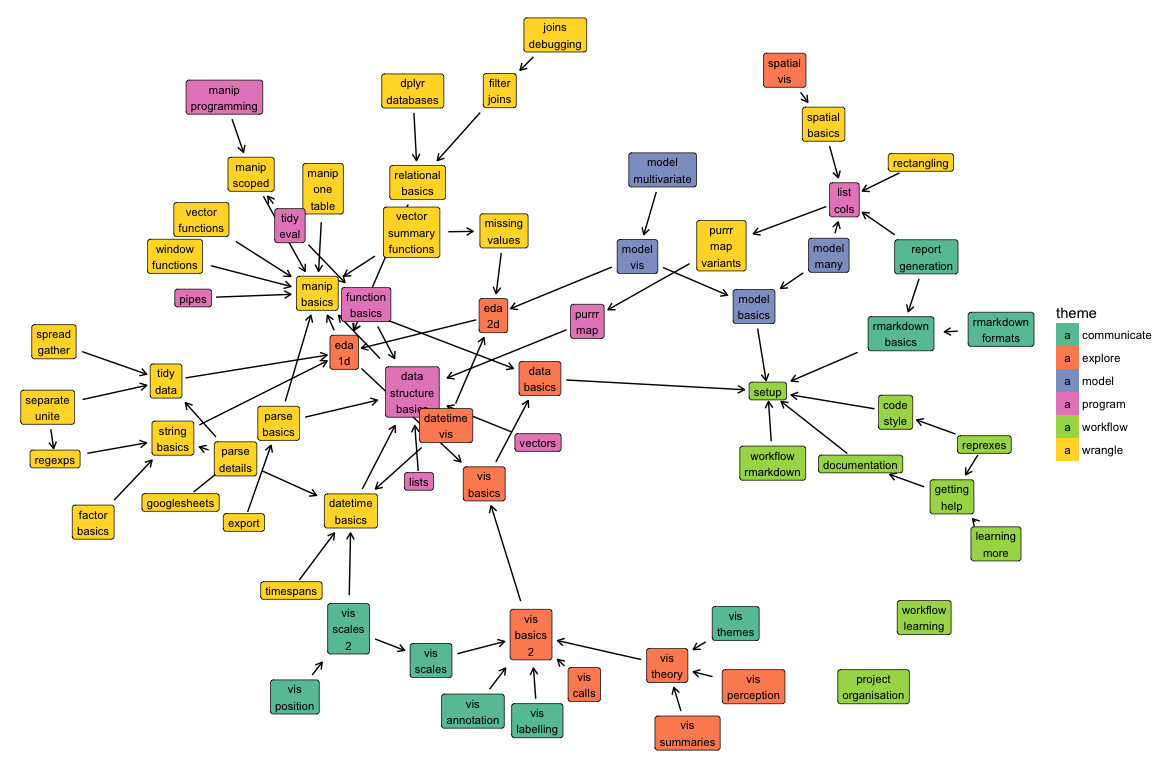
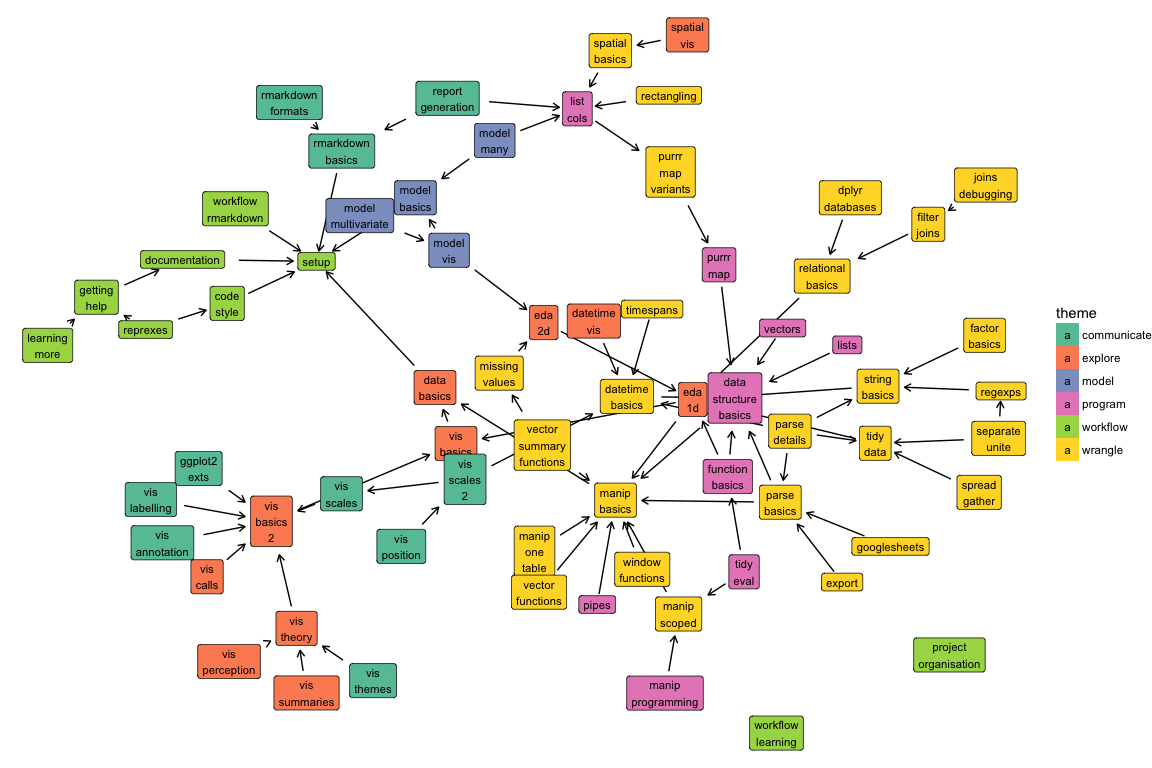
Add ggplot2-exts

diff --git a/docs/ggplot2-exts.md b/docs/ggplot2-exts.md
@@ -1,0 +1,20 @@
+---
+title: ggplot2 extensions
+---
+
+<!-- Generated automatically from ggplot2-exts.yml. Do not edit by hand -->
+
+# ggplot2 extensions <small class='communicate'>[communicate]</small>
+<small>(Builds on: [Visualisation basics (2)](vis-basics-2.md))</small>
+
+ggplot2 is not an island; it also has a rich ecosystem of extensions that
+solve a wide range of problems that base ggplot2 does not. In this reading
+you'll learn about the most important site for finding ggplot2 extensions.
+
+## Readings
+
+  * [ggplot2 extensions gallery](http://www.ggplot2-exts.org/gallery/).
+    This is the best place to start if you discover a challenge plot type that
+    doesn't seem easy to do with just ggplot2.
+
+

diff --git a/docs/vis-basics-2.md b/docs/vis-basics-2.md
@@ -6,7 +6,7 @@ title: Visualisation basics (2)
 
 # Visualisation basics (2) <small class='explore'>[explore]</small>
 <small>(Builds on: [Visualisation basics (1)](vis-basics.md))</small>  
-<small>(Leads to: [Annotations](vis-annotation.md), [ggplot2 calls](vis-calls.md), [Labels](vis-labelling.md), [Scales](vis-scales.md), [The grammar of graphics](vis-theory.md))</small>
+<small>(Leads to: [ggplot2 extensions](ggplot2-exts.md), [Annotations](vis-annotation.md), [ggplot2 calls](vis-calls.md), [Labels](vis-labelling.md), [Scales](vis-scales.md), [The grammar of graphics](vis-theory.md))</small>
 
 Now it's time to learn some more of the components that make up ggplot2.
 

diff --git a/docs/upcoming.md b/docs/upcoming.md
@@ -361,6 +361,12 @@ title: Theme index
 <tr>
 <td id='week-10'>10</td>
   <td colspan="4"></td>
+  <td colspan="4"><a class="communicate" href="ggplot2-exts.html">ggplot2 extensions</a></td>
+  <td colspan="1"></td>
+</tr>
+<tr>
+<td></td>
+  <td colspan="4"></td>
   <td colspan="4"><a class="communicate" href="rmarkdown-formats.html">R Markdown presentations</a></td>
   <td colspan="1"></td>
 </tr>
